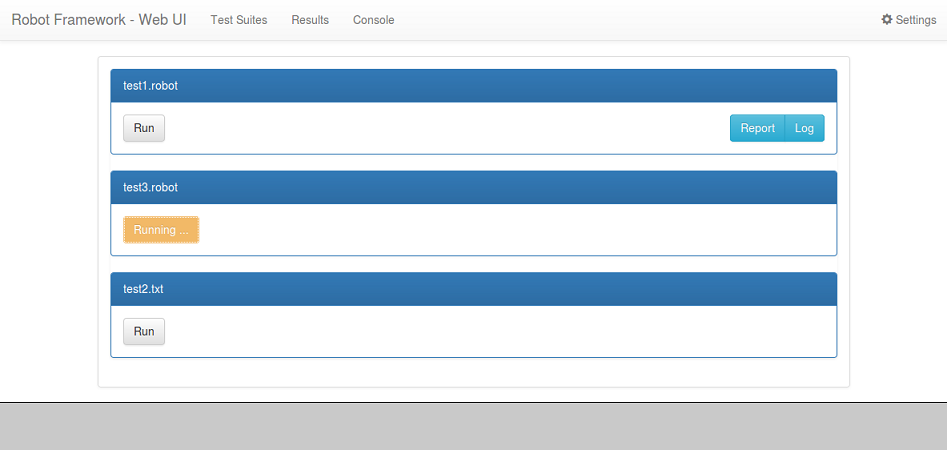
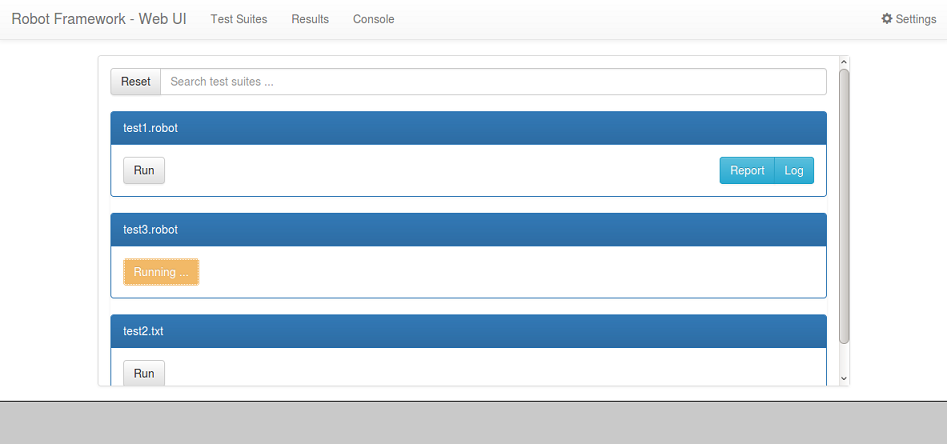
Add search functionality

diff --git a/src/rfwebui/templates/index.html b/src/rfwebui/templates/index.html
@@ -23,10 +23,16 @@
 
 {% block content %}
     <div class="panel panel-default">
-      <div class="panel-body" style="height: calc(100vh - 150px); overflow-y: auto;">
+        <div class="panel-body" style="height: calc(100vh - 150px); overflow-y: auto;">
+        <div class="input-group" style="margin-bottom: 20px;">
+            <span class="input-group-btn">
+                <button id="reset_search" class="btn btn-default" type="button">Reset</button>
+            </span>
+            <input id="test_search" type="text" class="form-control" placeholder="Search test suites ...">
+        </div>
         <ul class="list-group">
           {% for test in tests %}
-          <div class="panel panel-primary">
+          <div id="{{ test | split}}-panel" class="panel panel-primary">
             <div class="panel-heading">{{ test }}</div>
             <div class="panel-body">
               <button type="button" id="{{ test | split}}" class="btn btn-default run" value={{ test }}>Run</button>
@@ -38,7 +44,7 @@
           </div>
           {% endfor %}
         </ul>
-      </div>
+        </div>
     </div>
 {% endblock %}
 

diff --git a/src/rfwebui/static/ui_handler.js b/src/rfwebui/static/ui_handler.js
@@ -29,3 +29,24 @@ function runIsDone(data) {
         $("#" + id + "-log").attr("href", "/results/" + id + "/log.html");
     }
 }
+
+$( "#test_search" ).on('input',function(e){
+    var input = $( this ).val();
+    $( ".panel-heading" ).each(function() {
+        var parent_id = $(this).parent().attr('id');
+        var text = $( this ).text();
+        if (text.indexOf(input) == -1) {
+            $("#" + parent_id).hide();
+        } else {
+            $("#" + parent_id).show();
+        }
+    });
+});
+
+$( "#reset_search" ).click(function() {
+    $( "#test_search" ).val("");
+    $( ".panel-heading" ).each(function() {
+        var parent_id = $(this).parent().attr('id');
+        $("#" + parent_id).show();
+    });
+});

diff --git a/src/rfwebui/rfwebui.py b/src/rfwebui/rfwebui.py
@@ -4,7 +4,7 @@ from configs.config import config
 
 
 app = Flask("rfwebui")
-app.config.from_object(config['production'])
+app.config.from_object(config['development'])
 toolbar = DebugToolbarExtension(app)
 
 

diff --git a/README.md b/README.md
@@ -6,12 +6,13 @@
 Nothing yet.
 
 # Setup
-* First:
-  * Update settings.ini file under app_configs folder (absolute path to folder where tests are located)
+0.
+  * Copy and rename `settings_orig.ini` to `settings.ini` file under app_configs folder and update it
+    * Absolute path to folder where tests are located
   * Install nginx and configure it (see nginx section)
 
-1. Create Python3 virtualenv: 'virtualenv -p python3 envname'
-2. Activate virtualenv and install requirements 'pip install -r requirements.pip'
+1. Create Python3 virtualenv: 'virtualenv -p python3 [envname]'
+2. Activate your virtualenv and install requirements 'pip install -r requirements.pip'
 3. Test that everything works
   * Run 'rfwebui.py' in project folder
   * Open browser and go to (by default) 'http://127.0.0.1:5000/'

diff --git a/CHANGELOG.md b/CHANGELOG.md
@@ -1,5 +1,8 @@
 # Changelog
 
+## 0.03 - 12.10.2016.
+* Search functionality for test suites
+
 ## 0.02 - 11.10.2016.
 * Flask + Gunicorn + nginx
 * Serve RF output files under 'results' path
